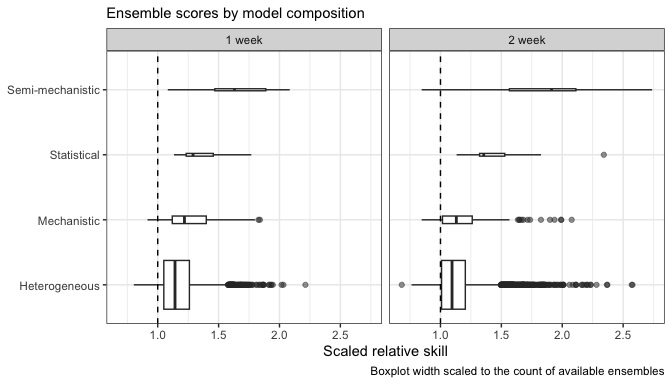
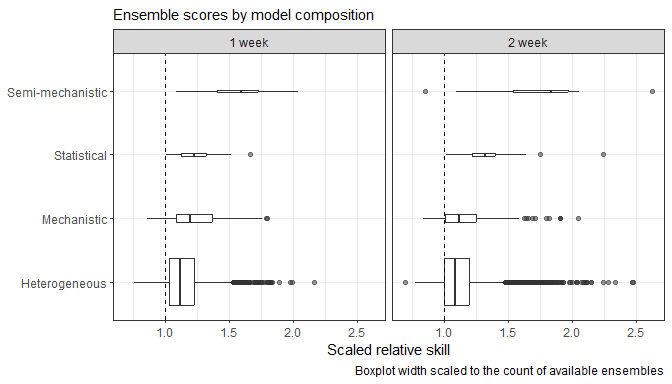
change "baseline" to hubreplica, include plot for numbers of homog/heterog ensembles

diff --git a/model-diversity/model-diversity.md b/model-diversity/model-diversity.md
@@ -52,3 +52,5 @@ increasing numbers of models, in comparison to the Hub ensemble (1).
   ensembles:
 
 ![](model-diversity_files/figure-gfm/plot-summary-1.png)<!-- -->
+
+![](model-diversity_files/figure-gfm/num-ensembles-1.png)<!-- -->
